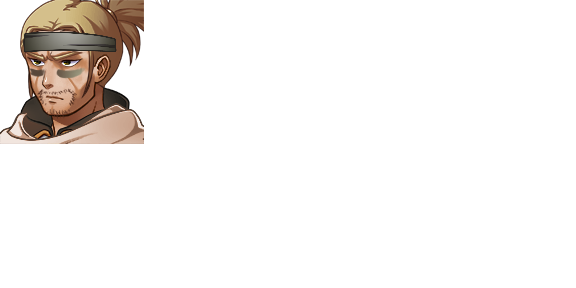
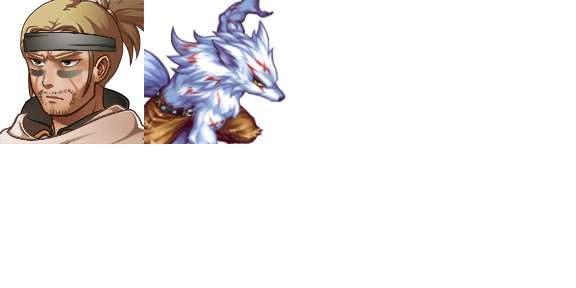
docs: added some comments in EnemySkills.js; created Werewolf face for dialogs

Changed region(s): [[0.25, 0.0, 0.5, 0.5]]

diff --git a/To Glory/js/plugins/EnemySkills.js b/To Glory/js/plugins/EnemySkills.js
@@ -61,6 +61,10 @@ function activateWerewolvesDevouring() {
     const _Game_Action_apply = Game_Action.prototype.apply
     Game_Action.prototype.apply = function (target) {
         if (this.item().id === DEVOURING_SKILL_ID) {
+            /* This additional check ensures actors are still affected by hunter's
+            mark before any wolf can use the devouring action. If no hunter's mark
+            is found, the werewolves simply lose their turn, but they complain a bit
+            with the player first. */
             if (this.subject().isEnemy() && this.subject().canUseDevouring()) {
                 _Game_Action_apply.call(this, target)
                 const damage = target.result().hpDamage
@@ -71,6 +75,7 @@ function activateWerewolvesDevouring() {
                 target.removeState(HUNTER_MARK_STATE_ID)
                 // console.log(`[DEVOURING]: Hunter's mark removed from ${target.name()}`)
             } else {
+                // An event that shows some text with the Werewolves' complaints :)
                 $gameTemp.reserveCommonEvent(HUNTER_MARK_HEALED)
             }
         } else {
